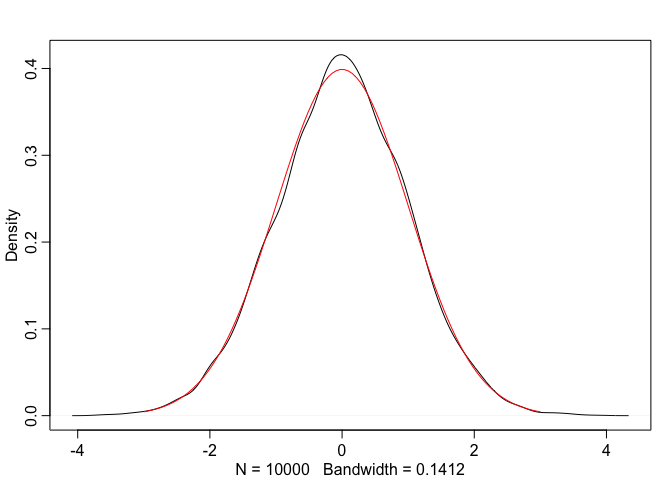
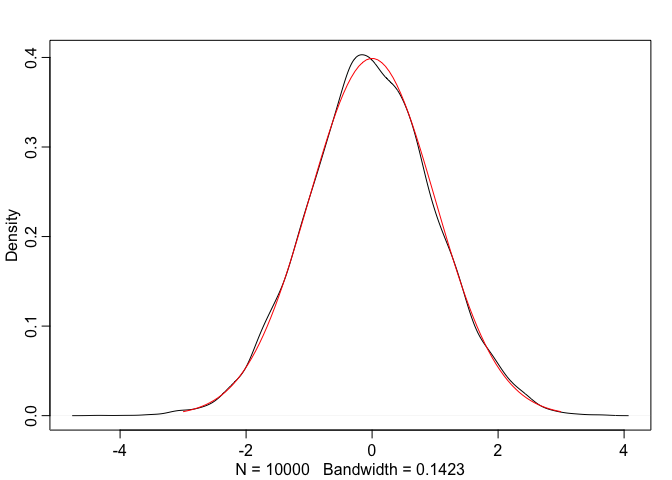
Fix

diff --git a/_posts/2018-06-22-Sampling_From_a_Normal_Distribution.md b/_posts/2018-06-22-Sampling_From_a_Normal_Distribution.md
@@ -6,6 +6,7 @@ output:
     keep_md: yes
 ---
 
+
 Most (if not all) programming languages have random number functions that produce *uniformly* distributed values. What about random numbers from an arbiutrary, *non-unform* distribution?
 
 In this post we'll explore several methods to generate random numbers from a *Normal* distribution. To simplify things a bit we'll work with a *standard* Normal distribution. This distrubtion has a mean $\mu = 0$, and a standard deviation $\sigma = 1$. This choice doesn't limit us in any way because there's a one-to-one mapping between the standard Normal distrubtion and any other normal distribution with the mean of $\mu$ and variance of $\sigma$:
@@ -53,12 +54,12 @@ head(samples_matrix, n = 2)
 ```
 
 ```
-##           [,1]      [,2]      [,3]       [,4]      [,5]      [,6]
-## [1,] 0.4542321 0.2451879 0.2353085 0.96663473 0.6104702 0.9702461
-## [2,] 0.4678893 0.7930820 0.2693637 0.05082366 0.9742491 0.1981950
-##            [,7]      [,8]      [,9]     [,10]
-## [1,] 0.26194008 0.2509255 0.1532633 0.6846992
-## [2,] 0.01963411 0.9266122 0.6407867 0.5159307
+##           [,1]      [,2]      [,3]      [,4]      [,5]      [,6]      [,7]
+## [1,] 0.2092528 0.5840815 0.7347990 0.5423473 0.1061720 0.3642399 0.2826386
+## [2,] 0.5755127 0.7354924 0.4201131 0.6875674 0.1339724 0.4634930 0.1218253
+##           [,8]        [,9]     [,10]
+## [1,] 0.8271714 0.043840417 0.8085010
+## [2,] 0.5757191 0.002331376 0.4328097
 ```
 
 Now we calculate the *mean* of each row to get a normally distributed varible, per Central Limit Theorem. We use the *mean* instead of the *sum* for convenience. In our case the *mean* is simply the *sum* divided by 10 (the number of values in each row), so either value will stil be a normally distributed variable.
@@ -133,8 +134,8 @@ head(samples_matrix, n = 2)
 
 ```
 ##           [,1]      [,2]
-## [1,] 0.8622749 0.3684707
-## [2,] 0.9619202 0.7154491
+## [1,] 0.7127697 0.3939681
+## [2,] 0.6738139 0.7353309
 ```
 
 Apply the Box-Muller transform to obtain *normally* distributed samples. Both variables $z_{0}$ and $z_{1}$ will be normally distributed:
@@ -146,7 +147,8 @@ head(z0)
 ```
 
 ```
-## [1] -0.36883146 -0.06001878  0.80281589  0.57984132  0.19074923  1.39058341
+## [1] -0.646948983 -0.081784960  0.946564142 -0.003156047  0.591291990
+## [6]  1.919719021
 ```
 
 Let's combine $z_{0}$ and $z_{1}$ into a single array $z$, plot the density function of $z$, and compare it to the true normal distribution:
